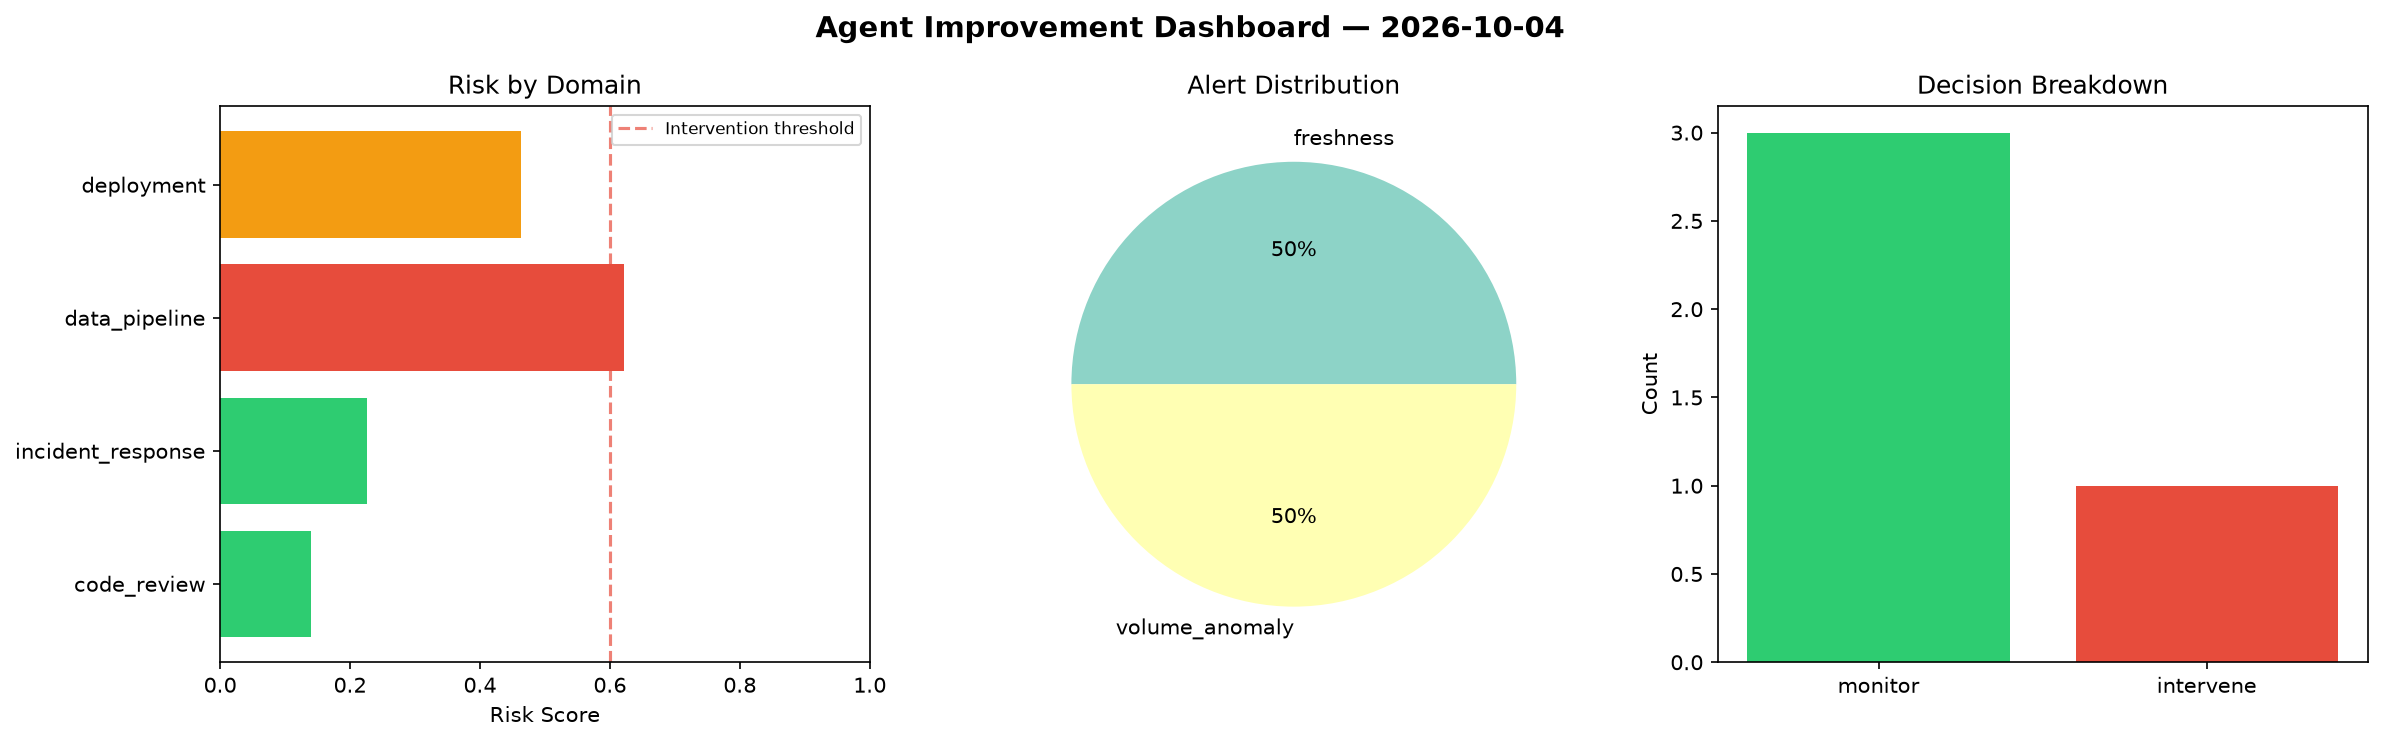
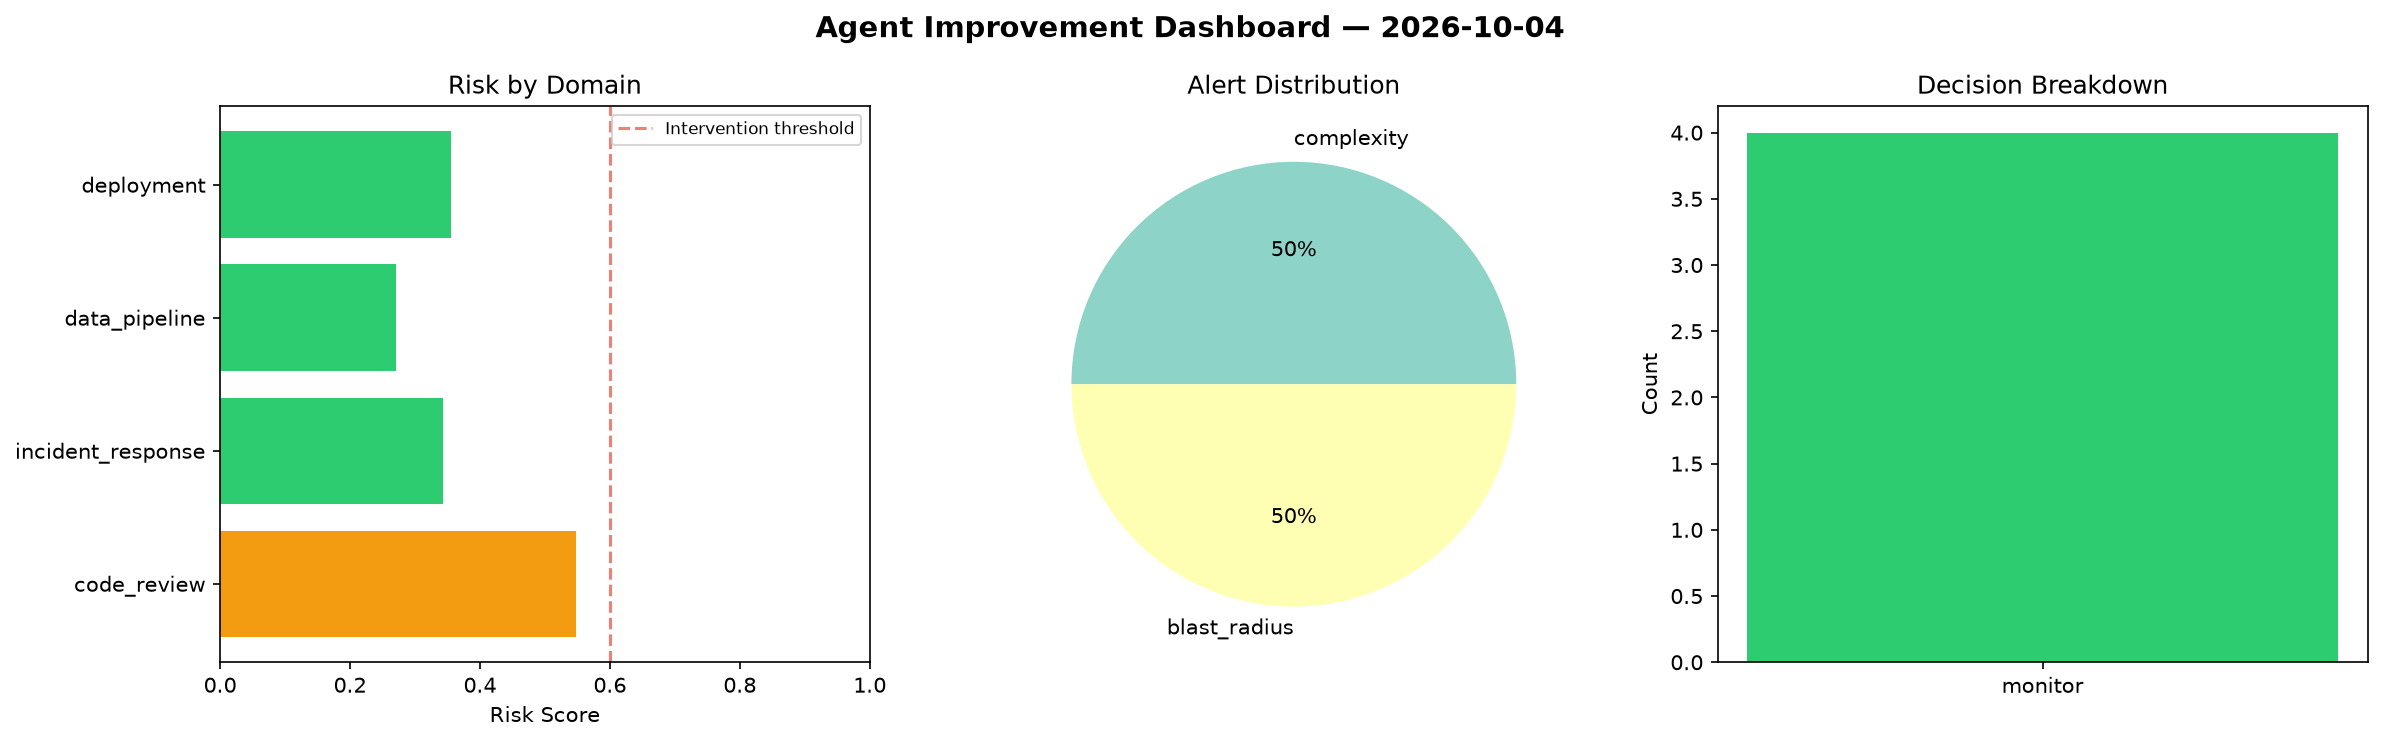
agent-improvement: daily cycle 2026-10-04T23:06

diff --git a/logs/2026-10-04.md b/logs/2026-10-04.md
@@ -1,6 +1,6 @@
 # Agent Improvement Report — 2026-10-04
 
-**Cycle ID:** `b8c06e94` | **Avg Risk:** 0.3629 | **Interventions:** 1/4
+**Cycle ID:** `0e6bbb23` | **Avg Risk:** 0.3793 | **Interventions:** 0/4
 
 ![Dashboard](2026-10-04_dashboard.png)
 
@@ -10,18 +10,18 @@
 
 | Domain | Risk Score | Decision | Alerts |
 |--------|-----------|----------|--------|
-| code_review | 0.1403 | monitor | none |
-| incident_response | 0.2262 | monitor | none |
-| data_pipeline | 0.6216 | intervene | freshness, volume_anomaly |
-| deployment | 0.4636 | monitor | none |
+| code_review | 0.5476 | monitor | complexity |
+| incident_response | 0.3435 | monitor | blast_radius |
+| data_pipeline | 0.2712 | monitor | none |
+| deployment | 0.355 | monitor | none |
 
 ## Delta vs Yesterday
 
 | Domain | Today | Yesterday | Change |
 |--------|-------|-----------|--------|
-| code_review | 0.1403 | 0.6106 | 📉 -77.0% |
-| incident_response | 0.2262 | 0.6095 | 📉 -62.9% |
-| data_pipeline | 0.6216 | 0.2502 | 📈 148.4% |
-| deployment | 0.4636 | 0.5489 | 📉 -15.5% |
+| code_review | 0.5476 | 0.6106 | 📉 -10.3% |
+| incident_response | 0.3435 | 0.6095 | 📉 -43.6% |
+| data_pipeline | 0.2712 | 0.2502 | 📈 8.4% |
+| deployment | 0.355 | 0.5489 | 📉 -35.3% |
 
-**Refinement:** `{'adjustment': 'tighten_thresholds', 'trend': 'degrading', 'window': 4}`
+**Refinement:** `{'adjustment': 'maintain', 'trend': 'improving', 'window': 4}`
